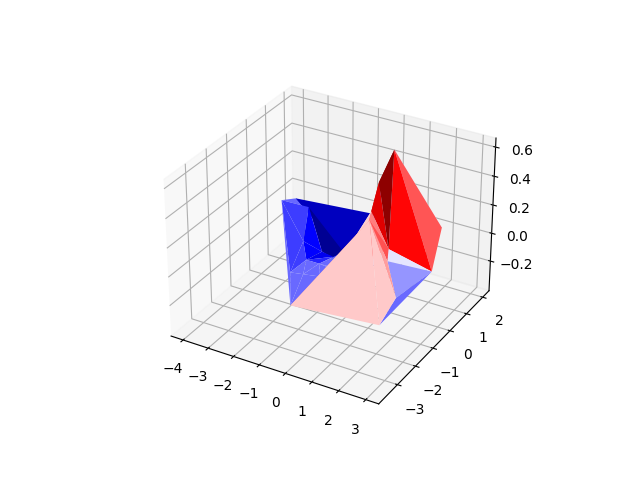
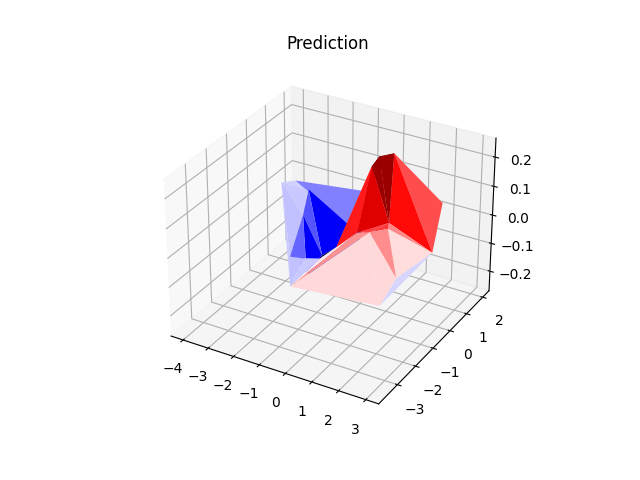
Found decent solution that could capture the trend, but not good enough

diff --git a/prediction_vs_truth.py b/prediction_vs_truth.py
@@ -139,7 +139,7 @@ y_true = df['output']
 x = df[['input1','input2']]
 
 # declare the chromosome and the variable dictionary
-chromosome =  ['*', 'a', '(exp)', '-', 'a', '-', '(exp)', 'b', '(X2)', '*', '+', '*', 'a', 'b', 'a', 'b', 'b', 'a', 'b', 'a', 'b', 'b', 'a', 'b', 'b', 'b', 'b', '5', '6', '0', '0', '1', '4', '1', '0', '11', '12', '1', '1', '10', '5']
+chromosome = ['/', 'a', '+', '(exp)', '(exp)', '*', '(X2)', 'b', 'b', 'a', 'a', 'b', '/', 'a', 'b', 'a', 'a', 'b', 'b', 'a', 'b', 'b', 'b', 'a', 'b', 'b', 'a', '4', '8', '4', '1', '5', '0', '13', '9', '13', '1', '11', '6', '4', '10']
 term_set = ['a','b']
 const_list = [9.085438328853577, 12.541568931269392, 14.228939030815598, 1.7243040260042173, 9.927060931656424, 13.910065740856533, 11.923836084853418, 12.466478431804356, 10.316798354700671, 11.526828984322051, 9.37978289606355, 3.3828761393003153, 13.466390125971392, 1.095020280549908]
 
@@ -220,23 +220,39 @@ print(f'Prediction R-squared Score (R2): {r2_score(y_true, y_pred)}')
 
 ax = plt.axes(projection='3d')
 ax.plot_trisurf(x['input1'], x['input2'], y_true,cmap='seismic', edgecolor='None')
+plt.title('Ground Truth')
 plt.savefig('Ground Truth.png')
 plt.show()
 bx = plt.axes(projection='3d')
 bx.plot_trisurf(x['input1'], x['input2'], y_pred,cmap='seismic', edgecolor='None')
+plt.title('Prediction')
 plt.savefig('Prediction.png')
 plt.show()
 cx = plt.axes(projection='3d')
 cx.plot_trisurf(x['input1'], x['input2'], abs(y_pred-y_true),cmap='seismic', edgecolor='None')
+plt.title('Mean Absolute Error')
 plt.savefig('error.png')
 plt.show()
 
 plt.tricontourf(x['input1'],x['input2'],y_true, cmap='jet',levels=100)
+plt.title('Ground Truth')
 plt.colorbar()
 plt.show()
 plt.tricontourf(x['input1'],x['input2'],y_pred, cmap='jet',levels=100)
+plt.title('Prediction')
 plt.colorbar()
 plt.show()
 plt.tricontourf(x['input1'],x['input2'],abs(y_true-y_pred), cmap='jet',levels=100)
+plt.title('Mean Absolute Error')
+plt.colorbar()
+plt.show()
+
+plt.tricontour(x['input1'],x['input2'],y_true, cmap='jet',levels=100)
+plt.colorbar()
+plt.show()
+plt.tricontour(x['input1'],x['input2'],y_pred, cmap='jet',levels=100)
+plt.colorbar()
+plt.show()
+plt.tricontour(x['input1'],x['input2'],abs(y_true-y_pred), cmap='jet',levels=100)
 plt.colorbar()
 plt.show()
